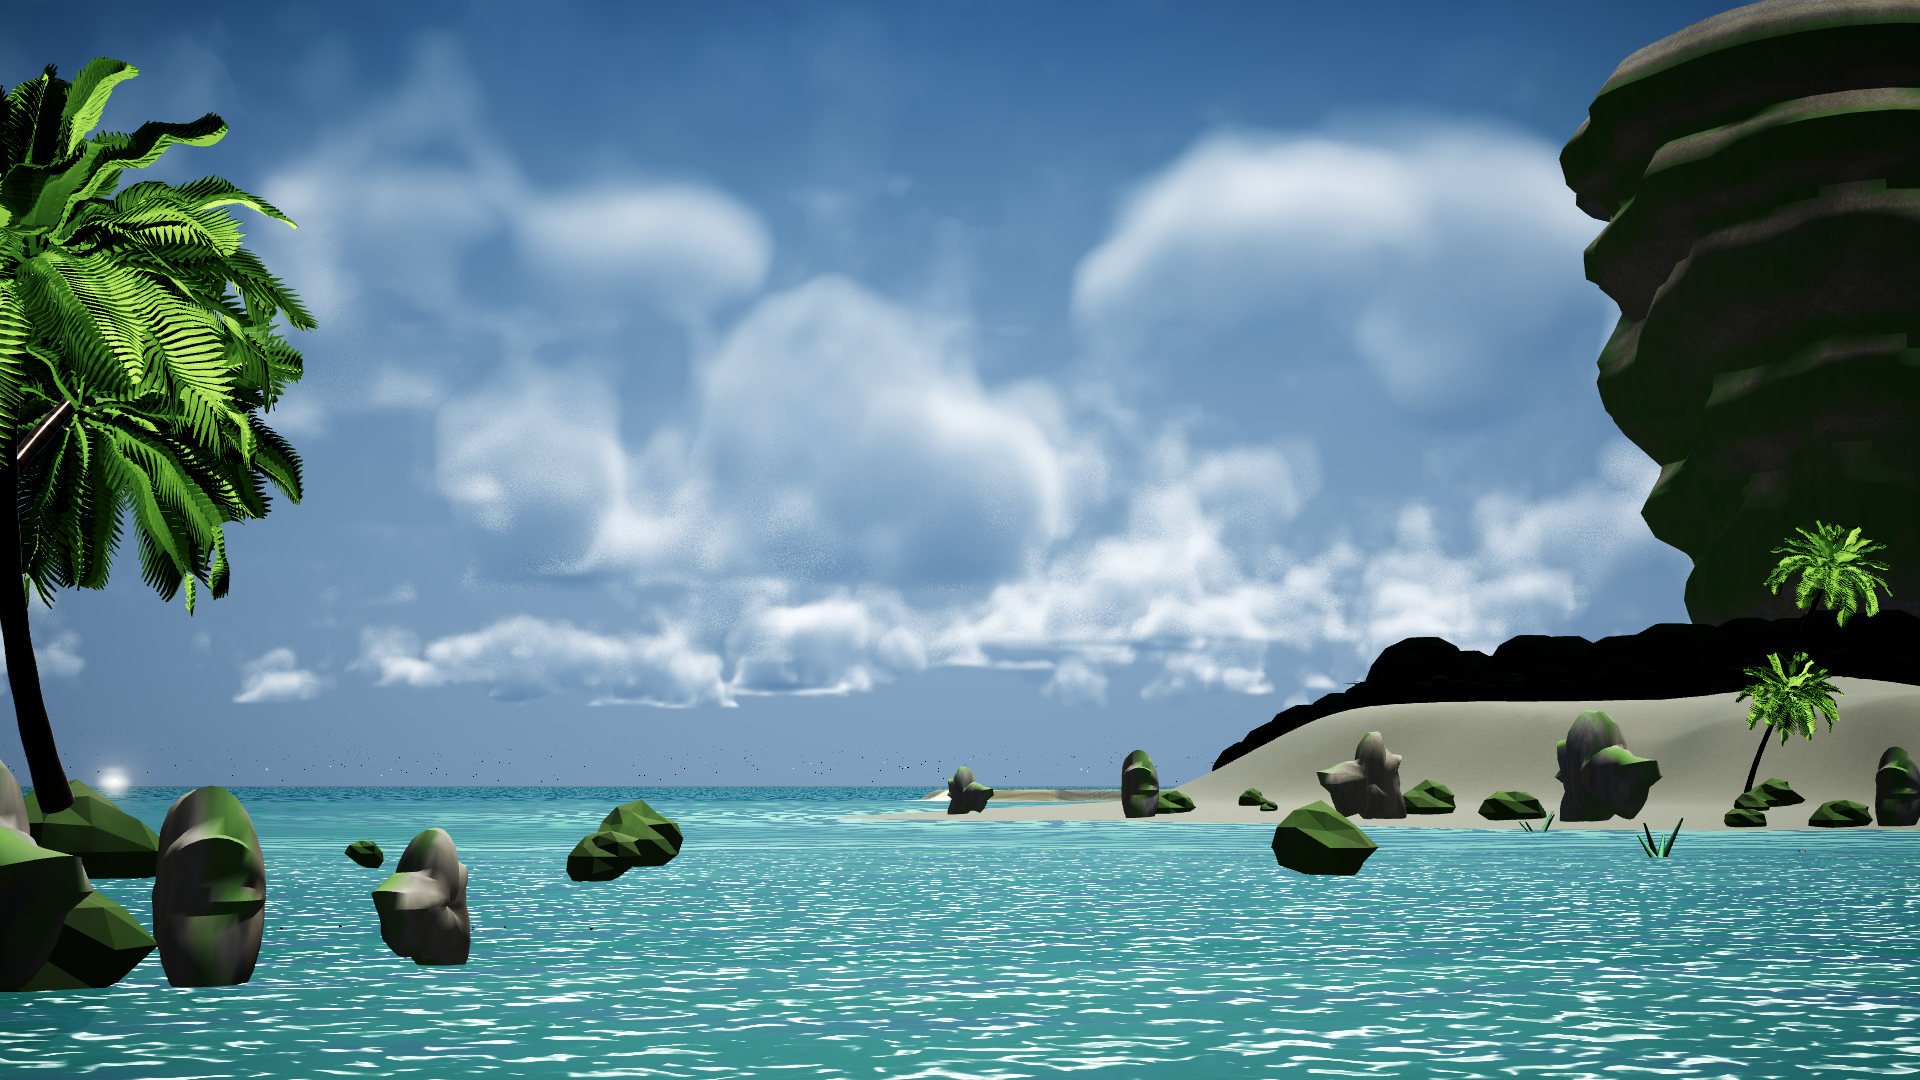
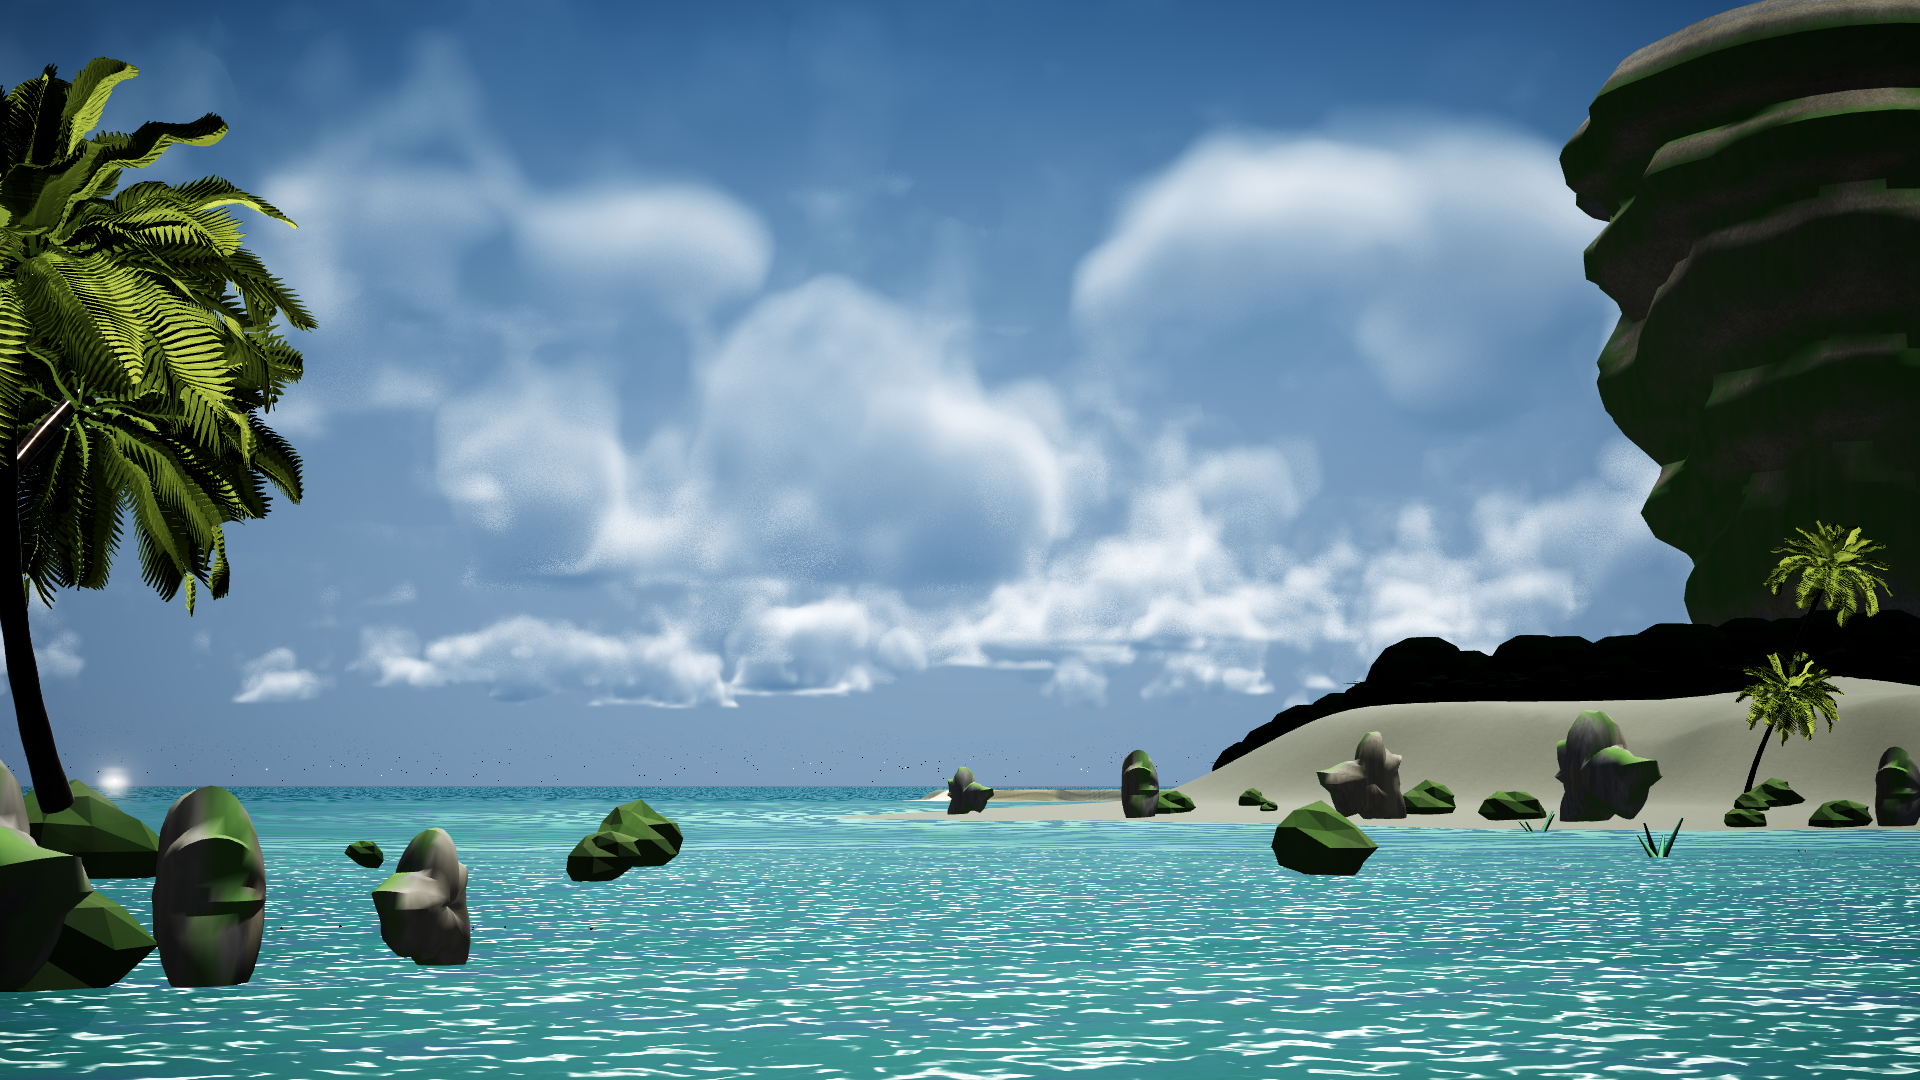
fix(R129): 棕榈叶去塑料感 -- 贴图与基底色双重饱和. ①量出: 叶片贴图饱和81 + p5/p95=0.33/0.69(暗部死) + 材质_BaseColor(0.486,0.81,0.317)又是高饱和绿 => 绿x绿溢出 ②改: 贴图去色70%+抬暗部(饱和81->30.7), 基底色改低饱和黄绿(0.46,0.60,0.30) ③同会话A/B: 只换贴图22.40%, 贴图+颜色24.69%, 观感'深绿有层次像真叶子' ④Islet 122.5/59.7/107.3 ⑤结论: '低模树木'实为贴图配色问题, 模型是真实77k顶点, 换billboard反而近景露怯

Changed region(s): [[0.0, 0.0306, 0.1562, 0.55], [0.9062, 0.4889, 1.0, 0.5806], [0.9062, 0.6111, 0.9688, 0.6722]]

diff --git a/Assets/Editor/R129Setup.cs b/Assets/Editor/R129Setup.cs
@@ -1,0 +1,92 @@
+// R129Setup.cs — R129 棕榈叶"去塑料感"
+//
+// 问题（放大看现状）：叶片是纯饱和绿 + 硬黑条纹，读成塑料。根因是
+//   ① 贴图本身饱和 81，再乘绿色 _BaseColor ⇒ 双重饱和
+//   ② 贴图 p5=0.33 / p95=0.69，暗部被压得很死 ⇒ 一轮轮黑条
+// 90  换成"去色 70% + 抬暗部"的贴图 v2，同时把 _BaseColor 改成低饱和黄绿
+// 90b 还原 v1
+// 91  只换贴图不换颜色 / 91b 只换颜色不换贴图（定位是谁主导）
+#if UNITY_EDITOR
+using UnityEditor;
+using UnityEngine;
+
+namespace WaterProject.EditorTools
+{
+    internal static class R129Setup
+    {
+        const string Mat = "Assets/Art/Materials/Islet/Islet_PalmLeaf.mat";
+        const string TexV2 = "Assets/Art/Textures/AI/Proc/Palm_Frond_AI_flat2.png";
+        const string TexV1 = "Assets/Art/Textures/AI/Proc/Palm_Frond_AI_flat.png";
+
+        static void P(string s) => System.IO.File.AppendAllText(
+            System.IO.Path.Combine(Application.dataPath, "../Logs/water_probe.txt"), s);
+
+        static Material M()
+        {
+            var m = AssetDatabase.LoadAssetAtPath<Material>(Mat);
+            if (m == null) P("R129 REFUSED: 无 Islet_PalmLeaf.mat\n");
+            return m;
+        }
+
+        static void Save(Material m)
+        {
+            EditorUtility.SetDirty(m);
+            AssetDatabase.SaveAssetIfDirty(m);
+        }
+
+        [MenuItem("Tools/R129/90 棕榈叶=去色版(推荐)")]
+        public static void LeafV2()
+        {
+            var m = M(); if (m == null) return;
+            var t = AssetDatabase.LoadAssetAtPath<Texture2D>(TexV2);
+            if (t == null) { P("R129/90 REFUSED: 缺 flat2 贴图\n"); return; }
+            m.SetTexture("_BaseMap", t);
+            m.SetColor("_BaseColor", new Color(0.46f, 0.60f, 0.30f, 1f));
+            Save(m);
+            P($"R129/90 叶=flat2 base=(0.46,0.60,0.30)（原 {m.GetColor("_BaseColor")}）\n");
+        }
+
+        [MenuItem("Tools/R129/90b 棕榈叶=还原(旧塑料绿)")]
+        public static void LeafV1()
+        {
+            var m = M(); if (m == null) return;
+            var t = AssetDatabase.LoadAssetAtPath<Texture2D>(TexV1);
+            if (t != null) m.SetTexture("_BaseMap", t);
+            m.SetColor("_BaseColor", new Color(0.486f, 0.81f, 0.317f, 1f));
+            Save(m);
+            P("R129/90b 叶已还原 v1\n");
+        }
+
+        [MenuItem("Tools/R129/91 只换贴图(颜色保持旧的)")]
+        public static void OnlyTex()
+        {
+            var m = M(); if (m == null) return;
+            var t = AssetDatabase.LoadAssetAtPath<Texture2D>(TexV2);
+            if (t != null) m.SetTexture("_BaseMap", t);
+            m.SetColor("_BaseColor", new Color(0.486f, 0.81f, 0.317f, 1f));
+            Save(m);
+            P("R129/91 只换贴图\n");
+        }
+
+        [MenuItem("Tools/R129/91b 只换颜色(贴图保持旧的)")]
+        public static void OnlyColor()
+        {
+            var m = M(); if (m == null) return;
+            var t = AssetDatabase.LoadAssetAtPath<Texture2D>(TexV1);
+            if (t != null) m.SetTexture("_BaseMap", t);
+            m.SetColor("_BaseColor", new Color(0.46f, 0.60f, 0.30f, 1f));
+            Save(m);
+            P("R129/91b 只换颜色\n");
+        }
+
+        [MenuItem("Tools/R129/92 探针: 叶片材质")]
+        public static void Probe()
+        {
+            var m = M(); if (m == null) return;
+            var t = m.GetTexture("_BaseMap");
+            var c = m.GetColor("_BaseColor");
+            P($"R129/92 叶: tex={(t != null ? t.name : "null")} base=({c.r:F2},{c.g:F2},{c.b:F2})\n");
+        }
+    }
+}
+#endif

diff --git a/Docs/学习路径与知识库/检测报告/R117_AI贴图测评.md b/Docs/学习路径与知识库/检测报告/R117_AI贴图测评.md
@@ -365,3 +365,43 @@ float d = saturate((cover - h) / max(cover, 0.20));
 >
 > 不过这一轮抓到三个真 bug：①改的那段代码**根本没被调用**（死代码）②纹理声明写错位置导致参数**静默不生效**
 > ③切场景又静默失败了。这三条以后能省下大把时间。
+
+---
+
+## 十四、R129：棕榈叶"去塑料感"（贴图 + 基底色一起改）
+
+### 先看清楚问题
+把 Islet 的棕榈放大 4 倍看：叶子是**纯饱和绿 + 硬黑条纹**，像塑料模型。
+量出来的证据：
+
+| 项 | 数值 | 含义 |
+| --- | --- | --- |
+| 叶片贴图饱和度 | **81**（RGB max−min） | 贴图本身已经很高饱和 |
+| 叶片贴图亮度 p5 / p95 | 0.33 / 0.69 | 暗部被压死 ⇒ 硬黑条纹 |
+| 材质 `_BaseColor` | (0.486, 0.81, 0.317) | 又是一块高饱和绿 |
+| 两者相乘 | 绿 × 绿 | **双重饱和**，溢出成"荧光塑料" |
+
+### 改法（两步）
+
+1. **贴图去色 70% + 抬暗部**：把 5%~95% 亮度拉伸到 0.34~0.96，再只保留 30% 原色相；
+   新图饱和度 **81 → 30.7**，均值 103.5 → 131。
+2. **基底色改成低饱和黄绿** `(0.46, 0.60, 0.30)`（原来是 0.486/0.81/0.317）。
+
+### A/B（同会话冻结，Islet 片头机位）
+
+| 版本 | 像素差 | 观感 |
+| --- | --- | --- |
+| 旧（绿×绿） | — | 荧光绿、黑条纹硬 |
+| 只换贴图 | 22.40% | 暗下来了，但颜色仍偏饱和 |
+| **换贴图 + 换颜色** | **24.69%** | **深绿有层次，高光自然，像真叶子** |
+
+Islet 全画面基线：123.4/59.2/107.7 → **122.5/59.7/107.3**（几乎不动——棕榈在宽景里占比小，
+但近景/特写差别明显）。
+
+### 结论与教训
+
+> 贴图**不要和基底色重复上色**。贴图带色 + 基底色带色 = 双重饱和，这是"塑料感"的典型来源。
+> 正确分工：**贴图管明暗纹理，基底色管色相**（或反过来），不要两边都饱和。
+
+> 这轮也说明：之前把"低模树木"当成模型问题，其实**主要是贴图/配色问题**——
+> 模型是真实的 77k 顶点棕榈，换 billboard 卡片反而会在近景露怯。**先量再动手**又省了一笔。
